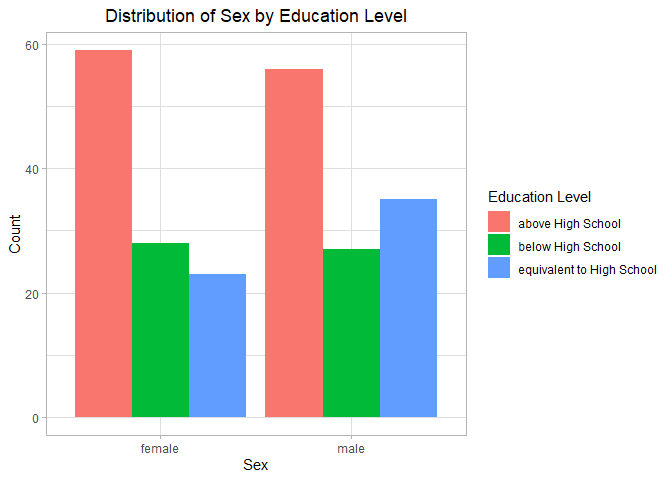
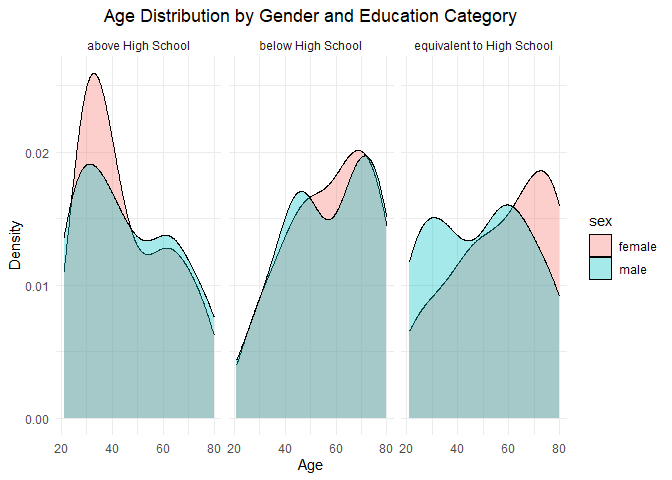
save

diff --git a/HW3.md b/HW3.md
@@ -97,11 +97,12 @@ P8105_EZ2384_HW3
 
 ``` r
 # Plot
-  barplot = ggplot(demographics, aes(x = sex, fill = education)) +
-            geom_bar(position = "dodge") +
-            labs(title = "Distribution of Sex by Education Level", x = "Sex", y = "Count", fill = "Education Level") +
-            theme_light() + theme(plot.title=element_text(hjust=0.5))
-  barplot
+  age_distribution_plot = ggplot(merged, aes(x = as.numeric(age), fill = sex)) + geom_density(alpha = 0.35) + 
+                          facet_wrap(. ~ education) +
+                          labs(title = "Age Distribution by Gender and Education Category", x = "Age", y = "Density") + 
+                          theme_minimal() +
+                          theme(plot.title = element_text(hjust = 0.5))
+  age_distribution_plot
 ```
 
 ![](HW3_files/figure-gfm/unnamed-chunk-1-1.png)<!-- -->
